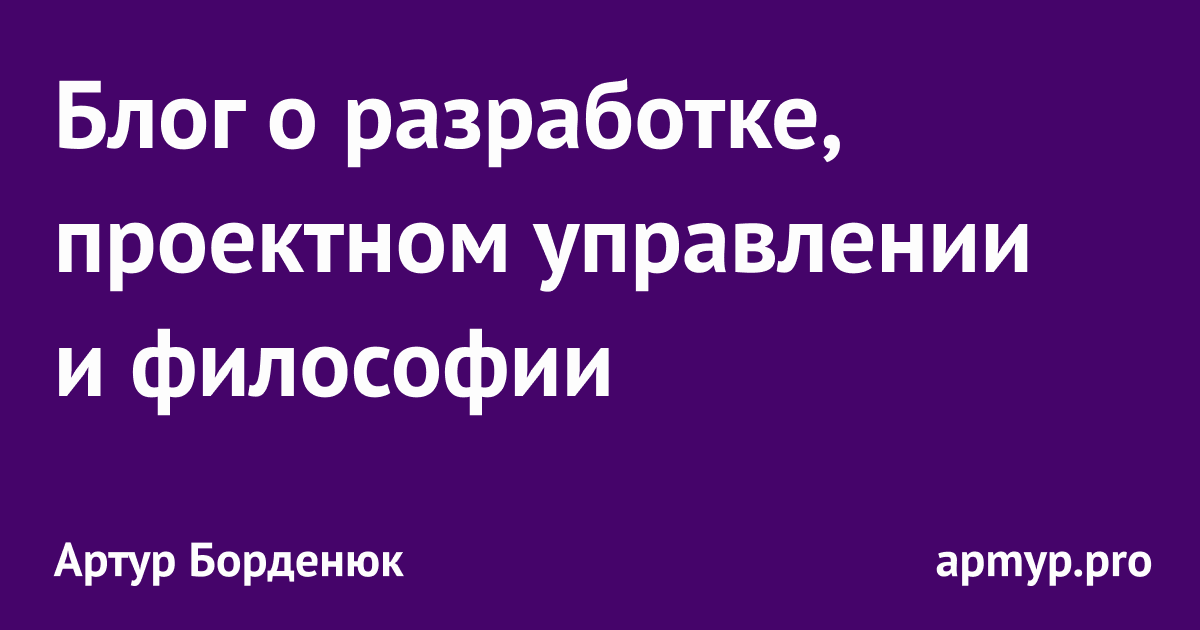
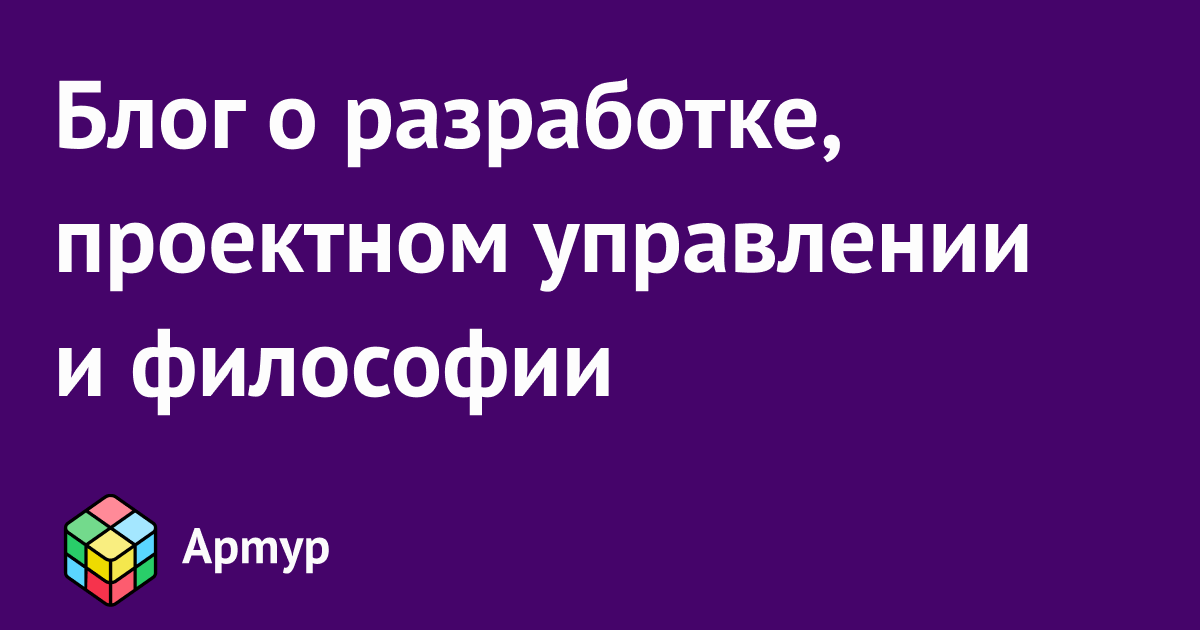
Github public keys

Changed region(s): [[0.0308, 0.7841, 0.3392, 0.9651], [0.7708, 0.8746, 0.9558, 0.9349]]

diff --git a/themes/default/layouts/partials/meta.html b/themes/default/layouts/partials/meta.html
@@ -10,6 +10,8 @@
 <meta name="twitter:creator" content="{{ .Site.Params.twitter }}">
 {{ if .Params.twitter_og_image }}
   <meta name="twitter:image" content="{{ .Params.twitter_og_image | absURL }}">
+{{ else }}
+  <meta name="twitter:image" content="{{ .Site.Params.twitter_og_image | absURL }}">
 {{ end }}
 
 <meta property="og:locale" content="ru_RU">

diff --git a/content/posts/increment-frontend.md b/content/posts/increment-frontend.md
@@ -3,8 +3,8 @@ title: "Increment — выпуск про фронтенд"
 date: 2020-06-05T14:24:02+03:00
 categories: ["development"]
 description: "Инкремент — журнал о разработке. 13 выпуск посвящен Фронтенду. Я подготовил выжимку самого интересного из этого выпуска"
-og_image: "/images/increment-frontend/tg_resolve_og_image.png"
-twitter_og_image: "/images/increment-frontend/tg_resolve_twitter_og_image.png"
+og_image: "/images/increment-frontend/og_image.png"
+twitter_og_image: "/images/increment-frontend/twitter_og_image.png"
 ---
 
 Инкремент — это журнал о том, как команды разрабатывают, управляют и используют масштабные программные системы.

diff --git a/content/posts/tg-resolve.md b/content/posts/tg-resolve.md
@@ -3,8 +3,8 @@ title: "Как сделать ссылку на Телеграм"
 date: 2020-05-30T10:00:02+03:00
 categories: ["lifehack"]
 description: "Чтобы ссылка работала, а пользователь не страдал, можно применить магию. Вместо домена t.me можно использовать tg://resolve"
-og_image: "/images/tg-resolve/tg_resolve_og_image.png"
-twitter_og_image: "/images/tg-resolve/tg_resolve_twitter_og_image.png"
+og_image: "/images/tg-resolve/og_image.png"
+twitter_og_image: "/images/tg-resolve/twitter_og_image.png"
 ---
 
 Если кто-то хочет забанить телеграм, то проще всего начать с доменов t.me и telegram.me.

diff --git a/content/posts/github-public-keys.md b/content/posts/github-public-keys.md
@@ -1,7 +1,7 @@
 ---
 title: "Твои публичные ключи"
 date: 2020-06-08T19:15:50+03:00
-categories: ["development"]
+categories: ["lifehack"]
 description: "Удобный лайфхак, когда тебе нужно взять публичный ключ"
 ---
 
